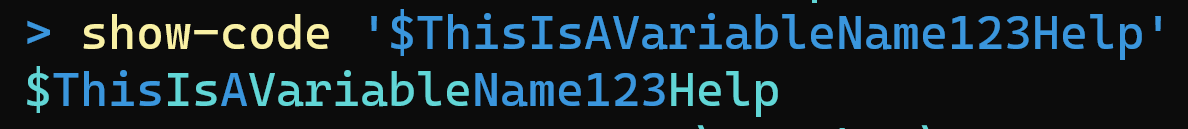
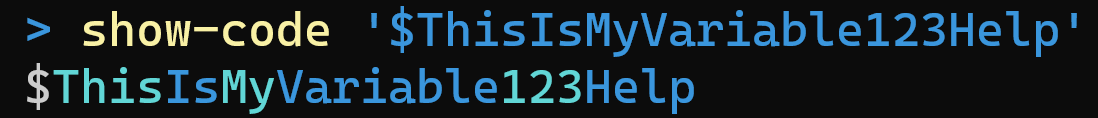
typos in readme; added description of Split-Pascalwise

diff --git a/README.md b/README.md
@@ -6,30 +6,30 @@ This is a group of powershell cmdLets that let you syntax highlight Powershell C
 
 Example:
 
-	show-code 'dir | % { $_.Name } '
+	show-code 'dir | % { $_.Name }'
 
 Will display the code, `dir | % { $_.Name }`, with syntax highlighting.
 
-The Show-Code function itself is very simple, and it's only significant line of code is this:
+The `Show-Code` function itself is very simple, and it's only significant line of code is this:
 
 	Get-Token $code | Show-Token -debugMode:$debugMode;
 
-i.e., it tokenizes the code that is passed to it, and asks the 'Show-Token' cmdLet to write the tokens with syntax highlighting.
+i.e., it tokenizes the code that is passed to it, and asks the `Show-Token` cmdLet to write the tokens with syntax highlighting.
 
 
 ## Get-Token
 
-Get-token is also very simple -- it only has 1 significant line of code:
+`Get-token` is also very simple -- it only has 1 significant line of code:
 
 	$result = [System.Management.Automation.Language.Parser]::ParseInput($code, [ref]$ParserTokens, [ref]$null) | Out-Null;
 
-That is, all of its work is done by the `ParseInput` method in `Automation.Language.Parser`.
+That is, all of its work is done by the `ParseInput` method in `Automation.Language.Parser`. This is a nifty tokenizer, built right into Powershell.
 
 ## Show-Token
 
-Most of the work that Show-Token does is to do with special cases for "nested tokens". Once it knows the exact token or nasted-token to be shown, it passes the result to a function `Write-Scrap` that then has to decide on the actual colors.
+Most of the work that `Show-Token` does is to do with special cases for "nested tokens". Once it knows the exact token or nested-token to be shown, it passes the result to a function `Write-Scrap` that then has to decide on the actual colors.
 
-The following comment from Show-Token explains the tricky business of nested tokens. If we ignored the concept of Nested tokens, then a string such as `"Hello $world"` would be written in a single color -- the `$world` would be treated as a regular piece of text, not as an embedded expresion. Here is the comment to describe nested tokens:
+The following comment from `Show-Token` explains the tricky business of nested tokens. If we ignored the concept of Nested tokens, then a string such as `"Hello $world"` would be written in a single color -- the `$world` would be treated as a regular piece of text, not as an embedded expresion. Here is the comment to describe nested tokens:
 
 
 	# NESTED TOKENS ARE FUN
@@ -51,15 +51,16 @@ The following comment from Show-Token explains the tricky business of nested tok
 
 ## Write-Scrap
 
-This is the controversial custom syntax highlighter itself.
+Ah -- now here is the controversial custom syntax highlighter itself.
 
 Taking the lead from `VS Code`, and in contradistinction from other syntax highlighters, it does a little bit extra than writing a single token in a single color.
 
 - Variable names that start with `$` -- the `$` is in a different color to the variable name.
 - Comments that start with `#` -- the `#` is a different shade of green than the comment itself.
 - Quoted strings, the quote marks themselves are in a different color than the string.
+- Here-Strings -- the "@" at the start and end of the string is in a different color to the string.
 
-But the most controversial aspect of all -- in `camelCase` and `PascalCase` variables names, each "word" is written in a slightly different color. In particular the colors alternate between cyan and darkcyan. The purpose here is to aid readability.
+But the **most controversial aspect of all** -- in `camelCase` and `PascalCase` variables names, each "word" is written in a slightly different color. In particular the colors alternate between cyan and darkcyan. The purpose here is to aid readability.
 
 Here is how the terminal itself would syntax highlight a long pascal cased name:
 
@@ -79,3 +80,60 @@ Versus how this highlighter would do the same:
 It will, in turn, dot the `Get-Token.ps1` and `Show-Token.ps1` files that it depends upon. And `Show-Token` will dot the `Get-TokenColor.ps1` and `Show-Name.ps1` files that it depends upon.
 
 So you can use "All of it" by dotting "Show-Code" -- or just dot the part you need, if you only want "Show-Token" or "Get-TokenColor" or "Show-Name".
+
+## Bonus -- PascalCase Word Splitter: Split-Pascalwise
+
+To facilitate the coloring of words in camelCase and PascalCase variable names, there is handy cmdLet included:
+
+- `Split-Pascalwise`
+
+Given a string that contains a mixed of upper and lower case letters, it will split it into an array of word-like strings.
+
+```powershell
+> Split-Pascalwise 'ThisIsMyVariable123Help'
+This
+Is
+My
+Variable
+123
+Help
+```
+
+If you can't find some fun uses for a function like that, I honestly don't know what to tell you.
+
+And since you're very curious (and why wouldn't you be) -- I'll share the regular expression at the heart of this thing.
+
+```powershell
+return ($_.ToString() -creplace '(?<!^)([A-Z0-9:_][a-z]|(?<=[a-z])[A-Z0-9:_])', ' $&').Split($null);
+```
+
+Note that it is case-sensitive (`creplace`) and it treats any switch from lower-case letters to "capital letters or numbers or ':' or '_'" as indicating a word boundary.
+
+Some of the tricky cases that this treats as intended are:
+
+```powershell
+> Split-Pascalwise 'DVDExtras'
+DVD
+Extras
+```
+
+-- consecutive capitals are a single "word", until the last capital which is assumed to belong with the lower-case letters that follow it.
+
+```powershell
+> Split-Pascalwise 'AsEasyAs123'
+As
+Easy
+As
+123
+```
+
+...Numbers behave like capitals. A group of number together are one word.
+
+But this also means, a following word that doesn't start with a capital, might 'steal' the last digit as its capital.
+
+```powershell
+> Split-Pascalwise '123guid'
+12
+3guid
+```
+
